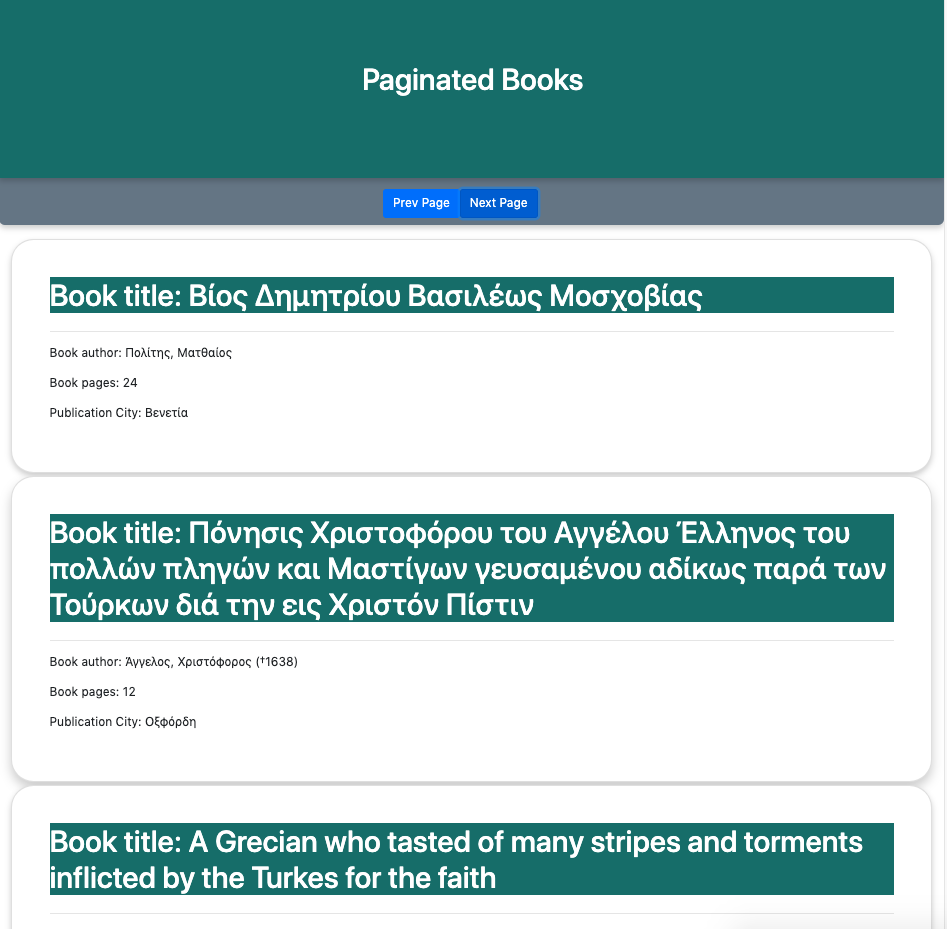
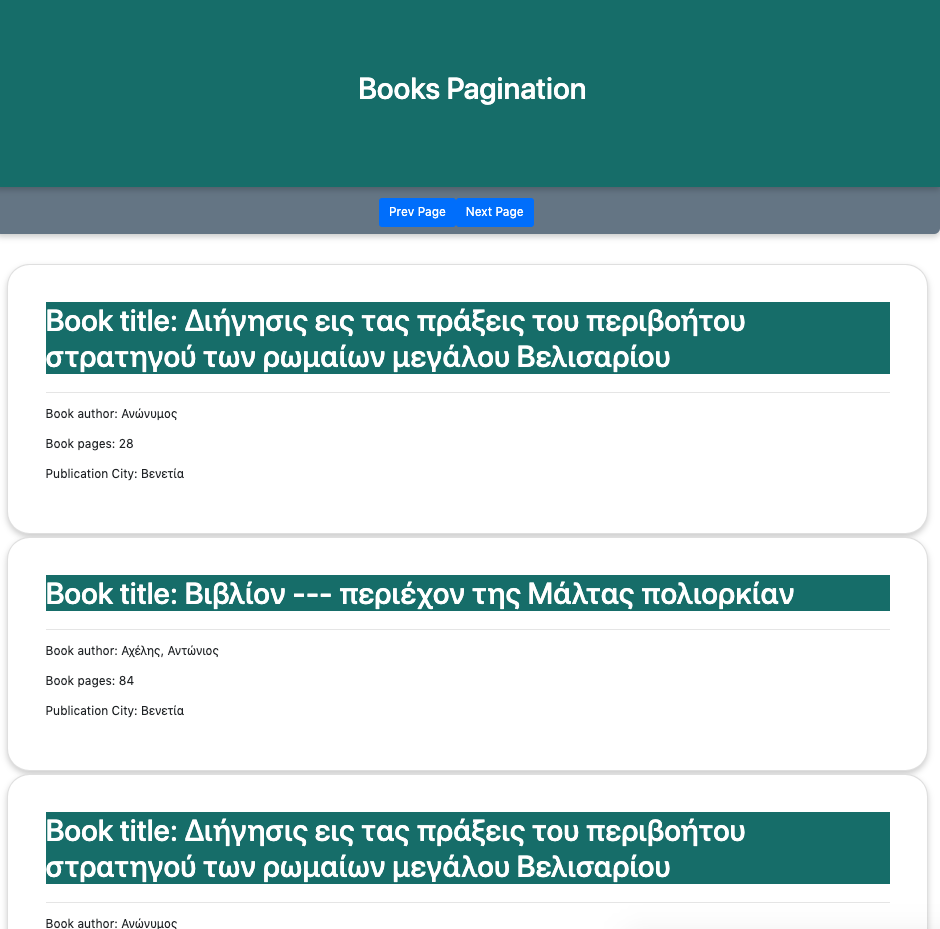
Additions to README

Changed region(s): [[0.0, 0.0, 1.0, 0.7804], [0.0, 0.8116, 0.9872, 0.9989], [0.3702, 0.0624, 0.617, 0.1249]]

diff --git a/src/containers/Books/Books.jsx b/src/containers/Books/Books.jsx
@@ -40,7 +40,7 @@ const Books = () => {
 
   useEffect(() => {
     fetch(
-      "https://nyx.vima.ekt.gr:3000/api/books",
+      "http://nyx.vima.ekt.gr:3000/api/books",
       {
         method: "POST",
       }
@@ -69,7 +69,7 @@ const Books = () => {
   return (
     <Container>
       <Header>
-        <h1>Paginated Books</h1>
+        <h1>Books Pagination</h1>
       </Header>
       <Buttons>
         <Button

diff --git a/README.md b/README.md
@@ -1,5 +1,5 @@
 
-# Books Pagination 
+# Books Pagination
 
 This project is a web app created using  ``` react boilerplate, react-router and styled-components```, that pulls in a range of data for Greek Books. It shows the book title, book publication city, author. You can use the previous or next page buttons to cycle through the list of books shown on every page.  
 
@@ -7,9 +7,9 @@ This project is a web app created using  ``` react boilerplate, react-router and
 
 To start working with this web app follow the steps below:
 
--   Clone from the Repo [Github Repo](https://github.com/SHUBV92/paginated-book) 
+-   Clone from the Repo [Books Pagination](https://github.com/SHUBV92/paginated-book) 
 
--   cd into the paginated-book folder 
+-   cd into the books-pagination folder 
 
 -   Run: npm install
 
